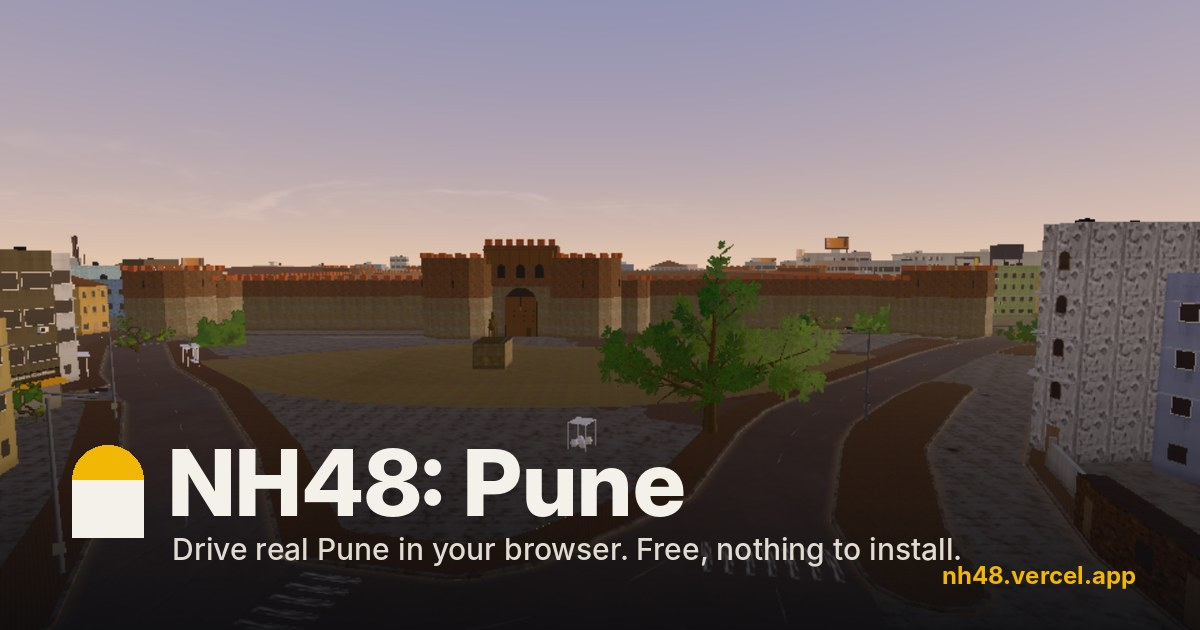
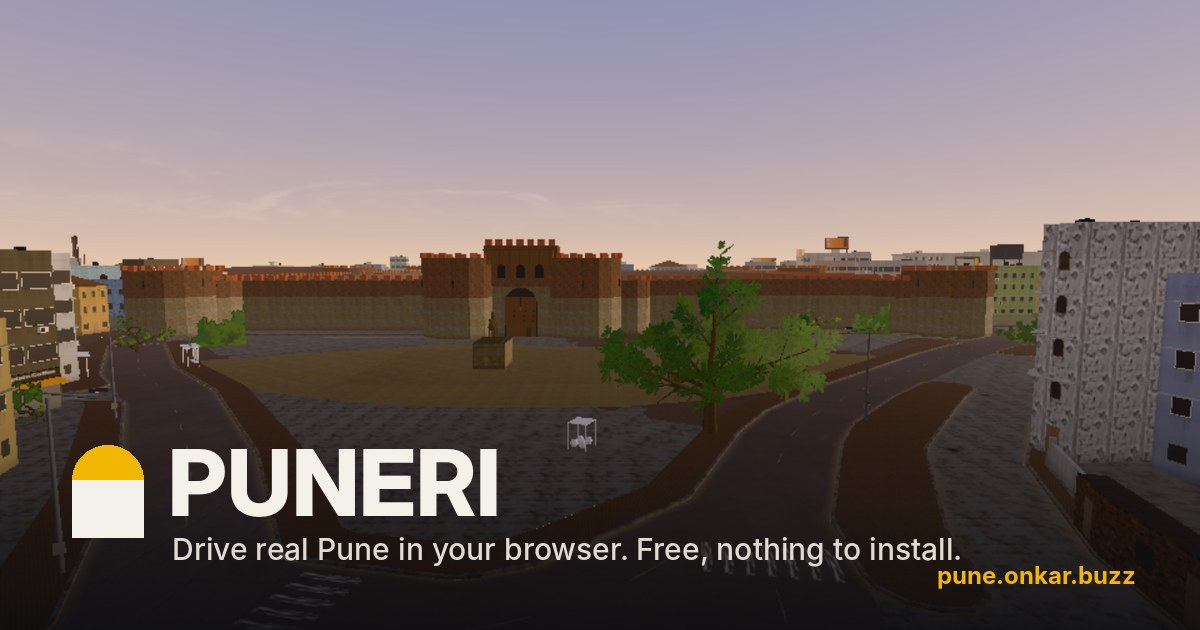
The game is Puneri now, at pune.onkar.buzz (title, loading screen, share card, photo stamp, link previews)

Changed region(s): [[0.1542, 0.6937, 0.5858, 0.8444], [0.7708, 0.8746, 0.9558, 0.9349]]

diff --git a/src/ui/hud.js b/src/ui/hud.js
@@ -143,7 +143,7 @@ export class HUD {
     t.innerHTML = `
       <div class="pz ttl">
         <div class="pz-l">
-          <div class="ttl-brand">${STONE}<b>NH48</b><span>Pune <span lang="mr">पुणे</span></span></div>
+          <div class="ttl-brand">${STONE}<b>PUNERI</b><span>Pune <span lang="mr">पुणे</span></span></div>
           <div class="pz-head ttl-head"><span class="pz-k">An open-world game</span><b>Pune</b><span class="ttl-mr" lang="mr">पुणे</span>
             <p class="ttl-sub">Start at Shaniwar Wada. Run an auto on the meter, misal on FC Road, a date in Baner. Shops shut 1 to 4, obviously.</p></div>
           <nav class="pz-menu">
@@ -346,7 +346,7 @@ export class HUD {
 
   buildPhoneNotice() {
     const n = el('div', 'ov phone', `<div class="glass card" role="dialog" aria-labelledby="ph-t">
-      <h3 id="ph-t">NH48 is made for computers</h3>
+      <h3 id="ph-t">Puneri is made for computers</h3>
       <p>It isn’t optimised for phones yet, controls are basic and it may run slowly. If you have a laptop or desktop, open this link there.</p>
       <button class="btn primary" id="ph-ok">Play anyway</button></div>`);
     this.root.appendChild(n);
@@ -400,7 +400,7 @@ export class HUD {
             <button class="pz-i" id="p-resume">Resume</button>
             <button class="pz-i" id="p-map">Map</button>
             <button class="pz-i" id="p-photo">Photo mode</button>
-            <button class="pz-i" id="p-share">Share NH48</button>
+            <button class="pz-i" id="p-share">Share Puneri</button>
             <button class="pz-i" data-pane="guide">Guide</button>
             <button class="pz-i" data-pane="set">Settings</button>
             <button class="pz-i" data-pane="ctrl">Controls</button>
@@ -449,10 +449,10 @@ export class HUD {
     p.querySelector('#p-resume').onclick = () => { this.game.goFullscreen?.(); this.game.togglePause(false); };
     p.querySelector('#p-map').onclick = () => { this.game.togglePause(false); this.game.toggleMap(true); };
     p.querySelector('#p-share').onclick = async () => {
-      const text = 'I\u2019m driving around Pune in my browser. FC Road, Shaniwar Wada, Parvati, autos on the meter.', url = 'https://nh48.vercel.app';
-      try { if (navigator.share) { await navigator.share({ title: 'NH48: Pune', text, url }); return; } } catch (e) { /* closed the sheet */ return; }
-      try { await navigator.clipboard.writeText(`${text} ${url}`); this.toast('Link copied', 'Paste it anywhere. #NH48Pune', 'info', 2.4); }
-      catch (e) { this.toast('nh48.vercel.app', 'Share this link', 'info', 3); }
+      const text = 'I\u2019m driving around Pune in my browser. FC Road, Shaniwar Wada, Parvati, autos on the meter.', url = 'https://pune.onkar.buzz';
+      try { if (navigator.share) { await navigator.share({ title: 'Puneri', text, url }); return; } } catch (e) { /* closed the sheet */ return; }
+      try { await navigator.clipboard.writeText(`${text} ${url}`); this.toast('Link copied', 'Paste it anywhere. #PuneriGame', 'info', 2.4); }
+      catch (e) { this.toast('pune.onkar.buzz', 'Share this link', 'info', 3); }
     };
     p.querySelector('#p-photo').onclick = () => { this.game.togglePause(false); this.game.photo && this.game.photo.open(); };
     p.querySelector('#p-title').onclick = () => { this.game.endShift(); this.syncTitle(); };
@@ -468,7 +468,7 @@ export class HUD {
   }
   syncPause() {
     const pw = this.pause && this.pause.querySelector('#p-who'), sv = savedCharacter();
-    if (pw) { pw.textContent = sv ? sv.name : 'Paused'; this.pause.querySelector('.pz-k').textContent = sv ? 'Paused' : 'NH48 · Pune'; }
+    if (pw) { pw.textContent = sv ? sv.name : 'Paused'; this.pause.querySelector('.pz-k').textContent = sv ? 'Paused' : 'Puneri · Pune'; }
     const g = this.game;
     const area = this.$('h-area')?.textContent || 'Pune', street = this.$('h-street')?.textContent || '';
     this.pause.querySelector('#p-meta').innerHTML = `<span>${street || area}</span><span>${this.$('h-clock')?.textContent || ''}</span><span>${fmtRupees(g.stats?.money ?? 0)}</span>`;

diff --git a/src/game/photo.js b/src/game/photo.js
@@ -100,7 +100,7 @@ export class PhotoMode {
     const where = street && street !== area ? `${street}, ${area}` : area;
     x.save();
     x.font = `800 ${30 * s}px Archivo, Inter, system-ui, sans-serif`;
-    const t1 = 'NH48: Pune', w1 = x.measureText(t1).width;
+    const t1 = 'Puneri', w1 = x.measureText(t1).width;
     x.font = `600 ${17 * s}px Inter, system-ui, sans-serif`;
     const w2 = x.measureText(where).width, bw = Math.max(w1, w2) + 70 * s, bh = 86 * s, bx = pad, by = H - pad - bh;
     x.fillStyle = 'rgba(12,13,16,.62)';
@@ -114,15 +114,15 @@ export class PhotoMode {
     x.font = `800 ${30 * s}px Archivo, Inter, system-ui, sans-serif`; x.fillText(t1, bx + 60 * s, by + 40 * s);
     x.fillStyle = 'rgba(244,241,234,.78)'; x.font = `600 ${17 * s}px Inter, system-ui, sans-serif`; x.fillText(where, bx + 60 * s, by + 66 * s);
     x.textAlign = 'right'; x.fillStyle = 'rgba(244,241,234,.8)'; x.font = `700 ${16 * s}px Inter, system-ui, sans-serif`;
-    x.fillText('nh48.vercel.app', W - pad, H - pad);
+    x.fillText('pune.onkar.buzz', W - pad, H - pad);
     const fl = this.el.querySelector('.ph-flash'); fl.classList.remove('go'); void fl.offsetWidth; fl.classList.add('go');
-    const name = 'NH48 Pune ' + where.replace(/[^\w ,.-]+/g, '').slice(0, 40) + '.jpg';
+    const name = 'Puneri ' + where.replace(/[^\w ,.-]+/g, '').slice(0, 40) + '.jpg';
     cv.toBlob((b) => {
       if (!b) return;
       const a = document.createElement('a'); a.href = URL.createObjectURL(b); a.download = name;
       document.body.appendChild(a); a.click(); a.remove();
       setTimeout(() => URL.revokeObjectURL(a.href), 4000);
-      G.hud && G.hud.toast && G.hud.toast('Photo saved', 'In your downloads. Tag it #NH48Pune', 'info', 2.6);
+      G.hud && G.hud.toast && G.hud.toast('Photo saved', 'In your downloads. Tag it #PuneriGame', 'info', 2.6);
     }, 'image/jpeg', 0.92);
   }
 }

diff --git a/src/game/guide.js b/src/game/guide.js
@@ -126,7 +126,7 @@ export function guideHTML() {
     ['People and dating', cards(PEOPLE)],
     ['Controls', `<div class="gd-keys">${CONTROLS_DEF.map(([k, d]) => [k === 'W A S D' ? ['W', 'A', 'S', 'D'].map(keyLabel).join(' ') : k.split(' / ').map(x => keyLabel(x === 'Shift' ? 'ShiftLeft' : x === 'Alt' ? 'AltLeft' : x)).join(' / '), d]).map(([k, d]) => `<div><span>${k.split(/ (?:or|to|\/) /).map(x => `<span class="kbd">${esc(x)}</span>`).join('')}</span><p>${esc(d)}</p></div>`).join('')}</div>`],
   ];
-  return `<p class="gd-intro">Everything in NH48 Pune, in one place. Real shops from the map are all over the city; Nearby and the map (M) show what’s around you.</p>
+  return `<p class="gd-intro">Everything in Puneri, in one place. Real shops from the map are all over the city; Nearby and the map (M) show what’s around you.</p>
     ${T.map((_, k) => `<input type="radio" name="gd" id="gd-${k}" class="gd-r"${k ? '' : ' checked'}>`).join('')}
     <div class="gd-nav">${T.map(([t], k) => `<label for="gd-${k}">${esc(t)}</label>`).join('')}</div>
     <div class="gd-panes">${T.map(([, b], k) => `<section class="gd-p gd-p${k}">${b}</section>`).join('')}</div>`;

diff --git a/src/page.html b/src/page.html
@@ -1,19 +1,19 @@
 <meta charset="utf-8">
-<title>NH48 Pune</title>
+<title>Puneri</title>
 <meta name="claude:viewport-fit-sides" content="cover">
-<meta name="description" content="NH48: an open-world driving game set in a 1:1 Pune, Deccan to Koregaon Park.">
+<meta name="description" content="Puneri: drive real Pune in your browser.">
 <style>
 /*FONTS*/
 /*CSS*/
 </style>
 <div id="app">
-  <canvas id="gl" aria-label="NH48: 3D view of Pune"></canvas>
+  <canvas id="gl" aria-label="Puneri: 3D view of Pune"></canvas>
   <div id="ui"></div>
   <div id="loading" role="status" aria-live="polite">
     <div class="ld">
       <div class="ld-brand">
         <svg class="ld-stone" viewBox="0 0 40 52" aria-hidden="true"><path d="M4 22a16 16 0 0 1 32 0v26H4z" fill="#F4F1EA"/><path d="M4 22a16 16 0 0 1 32 0z" fill="#F2B705"/><rect x="4" y="44" width="32" height="4" fill="#C9C4B8"/></svg>
-        <div class="ld-word">NH48</div>
+        <div class="ld-word">PUNERI</div>
       </div>
       <div class="ld-city"><span>Pune</span><span class="ld-dot" aria-hidden="true"></span><span lang="mr">पुणे</span></div>
       <div class="ld-bar"><i id="ld-fill"></i></div>

diff --git a/src/main.js b/src/main.js
@@ -83,7 +83,7 @@ const SOUNDS = ['horn_car', 'horn_beep', 'horn_truck', 'horn_truck_short', 'dog_
 async function main() {
   // Start over asked for a clean slate on this load
   try { if (sessionStorage.getItem('nh48_wipe')) { Save.wipe(); sessionStorage.removeItem('nh48_wipe'); } } catch (e) { /* ignore */ }
-  if (!document.createElement('canvas').getContext('webgl2')) throw new Error('This browser has no WebGL 2. NH48 needs a recent Chrome, Edge, Firefox or Safari.');
+  if (!document.createElement('canvas').getContext('webgl2')) throw new Error('This browser has no WebGL 2. Puneri needs a recent Chrome, Edge, Firefox or Safari.');
   const quality = pickQuality();
   installAtmosphere();
   const canvas = document.getElementById('gl');

diff --git a/src/core/assets.js b/src/core/assets.js
@@ -74,7 +74,7 @@ export class Loader {
       for (let i = 0; i < bin.length; i++) b[i] = bin.charCodeAt(i);
     }
     if (b[0] === 0x1f && b[1] === 0x8b) {
-      if (typeof DecompressionStream === 'undefined') throw new Error('This browser is too old to unpack NH48. Please update it.');
+      if (typeof DecompressionStream === 'undefined') throw new Error('This browser is too old to unpack Puneri. Please update it.');
       const stream = new Blob([b]).stream().pipeThrough(new DecompressionStream('gzip'));
       b = new Uint8Array(await new Response(stream).arrayBuffer());
     }
